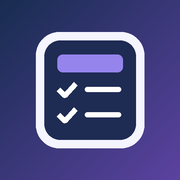
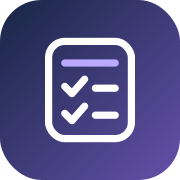
Add files via upload

diff --git a/index.html b/index.html
@@ -1,4 +1,4 @@
-<!doctype html><html lang="de"><head><meta charset="utf-8"><meta name="viewport" content="width=device-width,initial-scale=1,viewport-fit=cover"><meta name="theme-color" content="#182c50"><meta name="apple-mobile-web-app-capable" content="yes"><meta name="apple-mobile-web-app-title" content="Mein Alltag"><title>Mein Alltag</title><link rel="icon" href="alltag-icon-192.png?v=171" type="image/png"><link rel="apple-touch-icon" sizes="180x180" href="alltag-icon-180.png?v=171"><link rel="manifest" href="alltag-v171.webmanifest"><style>
+<!doctype html><html lang="de"><head><meta charset="utf-8"><meta name="viewport" content="width=device-width,initial-scale=1,viewport-fit=cover"><meta name="theme-color" content="#182c50"><meta name="apple-mobile-web-app-capable" content="yes"><meta name="apple-mobile-web-app-title" content="Mein Alltag"><title>Mein Alltag</title><link rel="icon" href="alltag-icon-192.png?v=181" type="image/png"><link rel="apple-touch-icon" sizes="180x180" href="alltag-icon-180.png?v=181"><link rel="manifest" href="alltag-v171.webmanifest"><style>
 :root{font-family:Inter,-apple-system,BlinkMacSystemFont,"Segoe UI",sans-serif;color:#173b2b;background:#f4f7f3}*{box-sizing:border-box}body{margin:0}button,input,textarea,select{font:inherit}button{cursor:pointer}a{color:inherit}.hidden{display:none!important}.app{display:flex;min-height:100vh}.side{width:252px;flex-shrink:0;background:linear-gradient(165deg,#07392f,#194f3e);color:#fff;padding:24px 15px;display:flex;flex-direction:column;gap:5px;position:sticky;top:0;height:100vh}.brand{font-size:24px;font-weight:750;padding:10px 12px 25px}.brand small{display:block;font-size:12px;font-weight:400;color:#bcd8c8;margin-top:6px}.nav{border:0;background:none;color:#e3f1e7;text-align:left;border-radius:13px;padding:13px 14px;font-size:14px}.nav:hover,.nav.active{background:#ffffff25;color:#fff}.sidefoot{margin-top:auto;font-size:12px;color:#c5dacc;padding:10px}.main{flex:1;min-width:0;padding:28px;max-width:1300px;margin:0 auto;width:100%}.top{display:flex;align-items:center;justify-content:space-between;gap:12px;margin-bottom:22px}.top h1{font-size:28px;margin:0}.muted{color:#728378;font-size:13px}.btn{background:linear-gradient(135deg,#2d8a50,#0e573a);border:0;color:#fff;border-radius:12px;padding:11px 16px;font-weight:650}.btn.secondary{background:#fff;color:#23523b;border:1px solid #d6e4da}.btn.danger{background:#fff;color:#a53131;border:1px solid #f0d7d7}.btn.small{padding:7px 10px;font-size:12px}.grid{display:grid;grid-template-columns:repeat(3,minmax(0,1fr));gap:13px}.card,.panel,.linkcard{background:#fff;border:1px solid #e3ece4;border-radius:20px;padding:18px;box-shadow:0 6px 18px #123e2510}.card{cursor:pointer;min-height:130px;position:relative;transition:transform .15s}.card:hover{transform:translateY(-2px)}.card .ico{font-size:27px;color:#17643e}.card strong{display:block;font-size:15px;margin:10px 0 5px}.card small{color:#788b7c}.dashboard-grid .card{text-align:center;display:flex;flex-direction:column;align-items:center;justify-content:center}.count{position:absolute;right:10px;top:9px;border-radius:99px;background:#12613c;color:#fff;padding:4px 8px;font-size:12px;font-weight:750}.hero{position:relative;display:flex;align-items:end;min-height:224px;border-radius:24px;background:linear-gradient(90deg,#052d27c9,#052d2712),url('landscape.svg') center/cover;color:#fff;padding:30px;margin-bottom:17px;box-shadow:0 10px 24px #173e2b26}.hero .eyebrow{position:absolute;top:22px;left:28px;font-weight:700;font-size:15px}.hero h1{font-size:clamp(27px,3vw,39px);margin:0 0 5px;letter-spacing:-.6px}.hero p{margin:0;color:#e6f1e7}.dashboard-link{display:flex;align-items:center;gap:15px;background:#fff;border:1px solid #e3ece4;border-radius:19px;padding:17px 20px;margin-top:13px;cursor:pointer;box-shadow:0 5px 15px #123e2510}.dashboard-link b{display:block}.dashboard-link small{color:#728378}.dashboard-link .arrow{margin-left:auto;font-size:26px}.section{margin-top:20px}.section h2{font-size:18px;margin:0 0 11px}.item{display:flex;gap:12px;align-items:flex-start;justify-content:space-between;padding:13px 0;border-bottom:1px solid #e9f0e9}.item:last-child{border-bottom:0}.item b{display:block;font-size:14px}.item small{display:block;color:#718176;margin-top:4px;line-height:1.4}.actions{display:flex;gap:5px;flex-shrink:0}.empty{padding:19px;color:#829386;text-align:center}.toolbar{display:flex;align-items:center;gap:10px;flex-wrap:wrap;margin:12px 0}.search{width:min(360px,100%);padding:11px;border:1px solid #d5e2d8;border-radius:11px}.links{display:grid;grid-template-columns:repeat(3,1fr);gap:12px}.linkcard{text-decoration:none;display:block}.linkcard strong{display:block;margin-bottom:6px}.form{display:grid;grid-template-columns:1fr 1fr;gap:12px}.form label{display:flex;flex-direction:column;gap:6px;font-size:12px;font-weight:650;color:#496553}.form label.wide{grid-column:1/-1}.form input,.form select,.form textarea{width:100%;border:1px solid #d3e0d7;border-radius:10px;padding:11px;background:#fff;color:#203c2e}.form textarea{min-height:85px;resize:vertical}.modal{position:fixed;inset:0;background:#10261dca;z-index:20;display:flex;align-items:center;justify-content:center;padding:14px}.dialog{background:#fff;border-radius:21px;padding:22px;width:min(620px,100%);max-height:90vh;overflow:auto}.dialog h2{margin:0 0 18px}.dialogfoot{display:flex;gap:9px;justify-content:flex-end;margin-top:19px}.auth{max-width:425px;margin:9vh auto;padding:29px}.auth .form{grid-template-columns:1fr}.notice{padding:12px;background:#fff1e2;color:#8a5526;border-radius:11px;margin:14px 0;font-size:13px}.bottom{display:none}.details{white-space:pre-wrap;word-break:break-word}#toast{position:fixed;bottom:25px;right:20px;background:#153f30;color:#fff;padding:13px 17px;border-radius:12px;max-width:400px;z-index:50;box-shadow:0 8px 20px #0003}.on-home .top{display:none}.filters{display:flex;gap:9px;flex-wrap:wrap;margin:0 0 13px}.filters button{border:1px solid #dce7dd;background:#fff;border-radius:30px;padding:9px 15px;font-weight:650;color:#355842}.filters button.active{background:#17603e;border-color:#17603e;color:#fff}.taskrow{display:flex;align-items:center;gap:12px;padding:15px 0;border-bottom:1px solid #e7eee7}.taskrow:last-child{border:0}.check{height:27px;width:27px;min-width:27px;border:1.5px solid #afc1b2;border-radius:8px;background:white;color:white}.check.done{background:#237c4b;border-color:#237c4b}.tasktext{min-width:0;flex:1}.tasktext b{display:block;font-size:15px}.tasktext small{display:block;font-size:12px;color:#748479;margin-top:4px}.tasktext.done b{text-decoration:line-through;color:#93a097}.priority{font-size:11px;font-weight:750;border-radius:8px;padding:5px 8px;white-space:nowrap}.priority.high{background:#ffe1df;color:#ad2b27}.priority.medium{background:#ffefc9;color:#99620d}.priority.low{background:#e0f4e4;color:#236d3b}.editicon{background:none;border:0;color:#718478;font-size:19px}.groupheading{font-size:16px;margin:21px 0 9px;color:#23593b}
 @media(max-width:850px){.side{display:none}.main{padding:15px 12px 115px}.hero{margin:-15px -12px 15px;border-radius:0 0 22px 22px;min-height:220px;padding:25px 19px}.hero .eyebrow{left:20px}.grid{gap:9px}.card{min-height:117px;padding:13px 7px;border-radius:17px}.card strong{font-size:13px}.card small{font-size:11px}.card .ico{font-size:25px}.count{top:5px;right:5px}.bottom{display:flex;position:fixed;left:0;right:0;bottom:0;z-index:10;justify-content:space-around;background:#fff;border-top:1px solid #e3ece4;border-radius:19px 19px 0 0;padding:7px 4px calc(8px + env(safe-area-inset-bottom));box-shadow:0 -5px 20px #173e2518}.bottom button{border:0;background:none;border-radius:12px;padding:7px 5px;color:#557263;display:flex;flex-direction:column;align-items:center;gap:3px;font-size:11px;min-width:57px}.bottom button.active{background:linear-gradient(135deg,#2a944d,#0e603c);color:#fff}.bottom .navico{font-size:23px;line-height:1.2}.links{grid-template-columns:1fr 1fr}.top h1{font-size:23px}}
 @media(max-width:460px){.form{grid-template-columns:1fr}.form label.wide{grid-column:auto}.links{grid-template-columns:1fr}.taskrow{gap:8px}.priority{padding:4px 6px}}
@@ -425,5 +425,7 @@ html body #app .side .brand .alltag-home-icon{margin:0 auto 10px!important;}
 :root{--privat-midnight:radial-gradient(ellipse at 90% 10%,#8c72c266,transparent 48%),repeating-linear-gradient(155deg,transparent 0 76px,#a9b8e70b 77px 78px,transparent 79px 92px),linear-gradient(35deg,#101b30,#283451 58%,#66558b) fixed;--privat-banner:linear-gradient(115deg,#354565,#75629e);--privat-sidebar:#111c30;--privat-highlight:#8272c5;}
 html body #app{background:var(--privat-midnight)!important;min-height:100dvh}html body #app .main{background:transparent!important}html body #app .side{background:var(--privat-sidebar)!important}html body #app .side .nav.active,html body #app .side .nav:hover{background:var(--privat-highlight)!important}html body #app .hero{background:var(--privat-banner)!important;min-height:148px!important;border-radius:16px!important;padding:24px!important;margin:0 0 16px!important;color:white!important}html body #app .dashboard-grid .card,html body #app .panel,html body #app .linkcard,html body #app .dashboard-link{background:#f7f7fc!important;border-color:#e2dfed!important;color:#172644!important;border-radius:16px!important}html body #app .dashboard-grid .card strong,html body #app .dashboard-link b{color:#172644!important}html body #app .dashboard-grid .card .ico{color:#7652ce!important}html body #app .main>h1,html body #app .main>h2{color:#f1eefb!important}@media(max-width:850px){html body #app .bottom{background:#f7f7fc!important}html body #app .bottom button{color:#172644!important}html body #app .bottom button.active{background:#e8e1f7!important;color:#654da5!important}html body #app .hero{padding:16px!important}}
 </style>
-</body>
+<style>
+/* Unified Midnight layout */
+html{min-height:100%;background:#101b30!important}body{min-height:100vh;background:radial-gradient(ellipse at 90% 10%,#8c72c266,transparent 48%),repeating-linear-gradient(155deg,transparent 0 76px,#a9b8e70b 77px 78px,transparent 79px 92px),linear-gradient(35deg,#101b30,#283451 58%,#66558b)!important;background-attachment:fixed!important;background-repeat:no-repeat!important;background-size:100% 100%!important}html,body,button,input,select,textarea{font-family:system-ui,-apple-system,BlinkMacSystemFont,"Segoe UI",sans-serif!important}button,input,select,textarea{letter-spacing:normal}html body #app{background:transparent!important}html body #app .side .brand{font-size:21px!important;font-weight:750!important;letter-spacing:normal!important}html body #app .side .nav{font-size:14px!important;min-height:44px!important;font-weight:650!important}html body #app .side .brand small{font-size:12px!important;font-weight:400!important}html body #app .hero h1{font-size:32px!important;font-weight:750!important}@media(min-width:851px){html body #app .main{flex:1!important;width:calc(100% - 240px)!important;max-width:1440px!important;margin:0 auto!important;padding:24px 32px 50px!important}html body #app .side{width:240px!important;flex:0 0 240px!important}}@media(max-width:850px){html body #app .main{width:100%!important;margin:0!important}}</style></body>
 </html>
